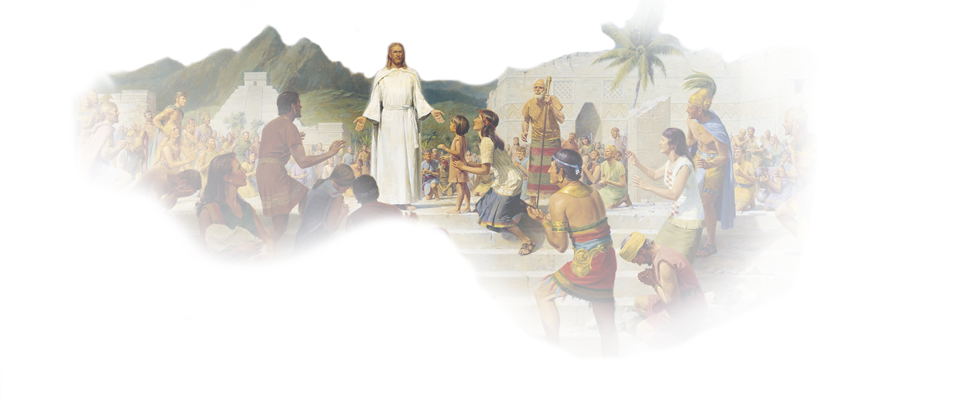
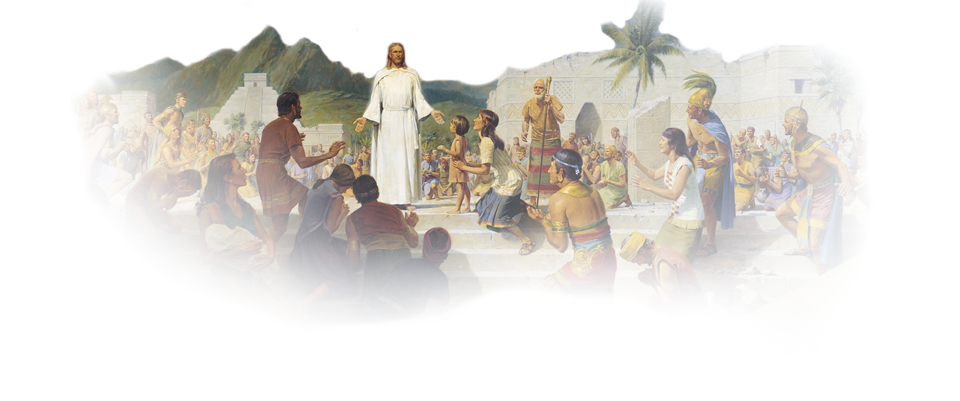
more background images. admin can view ALL event types.

diff --git a/public/index.html b/public/index.html
@@ -37,13 +37,13 @@
                                 <a class="nav-link active" id="all-events-tab" data-toggle="tab" href="#all-events" role="tab" aria-controls="all-events" aria-selected="true" onclick="app.scrollToEl(this)">Events</a>
                             </li>
                             <li class="nav-item">
-                                <a class="nav-link" id="lists-tab" data-toggle="tab" href="#lists" role="tab" aria-controls="lists" aria-selected="false">Lists</a>
+                                <a class="nav-link" id="lists-tab" data-toggle="tab" href="#lists" role="tab" aria-controls="lists" aria-selected="false" onclick="app.scrollToEl(this)">Lists</a>
                             </li>
                             <li class="nav-item">
-                                <a class="nav-link" id="prophecies-tab" data-toggle="tab" href="#prophecies" role="tab" aria-controls="prophecies" aria-selected="false">Prophecies</a>
+                                <a class="nav-link" id="prophecies-tab" data-toggle="tab" href="#prophecies" role="tab" aria-controls="prophecies" aria-selected="false" onclick="app.scrollToEl(this)">Prophecies</a>
                             </li>
                             <li class="nav-item">
-                                <a class="nav-link" id="contact-tab" data-toggle="tab" href="#contact" role="tab" aria-controls="contact" aria-selected="false">Project Info</a>
+                                <a class="nav-link" id="contact-tab" data-toggle="tab" href="#contact" role="tab" aria-controls="contact" aria-selected="false" onclick="app.scrollToEl(this)">Project Info</a>
                             </li>
                         </ul>
 
@@ -54,9 +54,10 @@
                                 <div id="eventsFilters"></div>
 
                                 <div class="events-list">
-                                    <div v-for="event in timelineEls.events.filter(e => e.eventType == 'normal' || e.eventType == 'secondary')">
 
-                                        <div class="events-list-item" :style="{'border-left': `5px solid ${ event.arc ? event.arc.color : '#aaa' }`}">
+                                    <div v-for="event in timelineEls.images.concat(timelineEls.events)">
+
+                                        <div v-if="isAdmin || (event.eventType == 'normal' || event.eventType == 'secondary')" class="events-list-item" :style="{'border-left': `5px solid ${ event.arc ? event.arc.color : '#aaa' }`}">
 
                                             <div v-if="event.img" class="event-image" :style="{'background-image': `url(${event.img})`}">
                                                 <div class="openTheater" @click="setTheaterImageByObj(event)"><i class="material-icons">fullscreen</i></div>
@@ -211,7 +212,30 @@
 
                             <!-- Info Tab -->
                             <div class="tab-pane fade" id="contact" role="tabpanel" aria-labelledby="contact-tab">
+                                <h3>Project Information</h3>
                                 <p>This project is part of a suite of study tools called Immerse. For more information or to support the project, contact Arthur Judd.</p>
+
+                                <h6>Determing Dates</h6>
+                                <p>Most of the dates on this timeline reflect information found soley in the Book of Mormon. Out of those, the majority have enough information to determine the year only, with approximate time from sequential events. In cases
+                                    where one event clearly came some time after another but still in the same year, an artibirary month was chosen to simply show the passing of time. In a future update the reliablilty of each date will be identified
+                                    for each case.</p>
+                                <p>In some cases, like the Book of Jared, an event was necessary to include but the records do not give enough information to secure a specific year and a certain of speculation was involved in deciding the year based on average
+                                    life span or duration or similar factors. In those cases, these outside sources were referenced to aid in the estimation:</p>
+                                <ul>
+                                    <li><a href="https://gentlyhewstone.com/2016/06/12/a-timeline-for-the-book-of-ether/#comments" target="_blank">"Gently Hew Stone" Blog</a></li>
+                                    <li><a href="https://gentlyhewstone.com/2016/06/12/a-timeline-for-the-book-of-ether/#comments" target="_blank">BYU Studies Book of Mormon Charts</a></li>
+                                </ul>
+
+                                <h6>Navigation</h6>
+                                <ul>
+                                    <li>Move through the timeline by scrolling left or right.</li>
+                                    <li>Zoom in and out by scrolling up and down, or with the <i class="material-icons">zoom_in</i> and <i class="material-icons">zoom_out</i> buttons.</li>
+                                    <li>You can return the initial position by clicking the <i class="material-icons">home</i> icon.</li>
+                                    <li>Event images can be expanded with the <i class="material-icons">fullscreen</i> button.</li>
+                                    <li>Click on the <i class="material-icons">gps_fixed</i> icon to jump to an event on the timeline.</li>
+                                    <li>Click on the <i class="material-icons">create</i> icon to edit the info for an event.</li>
+                                    <li>Click on the <i class="material-icons">import_contacts</i> icon to open the scripture associated with an event.</li>
+                                </ul>
                                 <p>Collaborators, <a href="#" @click="loginAdmin">login with your password</a> to edit the data.</p>
 
                             </div>
@@ -229,21 +253,36 @@
                             <div id="scrollmarker" :style="{left: `${zoomTargetPos}px`}"></div>
 
                             <!--<div id="flatLine" :style="{bottom: `${dividerHeight}rem`}"></div>-->
+                            <div v-for="era in eras" class="era-line" :style="{width: eraDuration*yearUnit+'px', left: (era-startYear)*yearUnit+'px'}">
 
-                            <div v-for="era in eras" class="century-block" :id="era" :style="{width: `${yearUnit * eraDuration}px`}">
+                                <!--<div class="sub-eras-wrapper">-->
+                                <!--    <div v-for="i in 5" class="sub-era-line"></div>-->
+                                <!--    <div v-if="eraDuration === 1" class="sub-era-line"></div>-->
+                                <!--</div>-->
+
                                 <div class="era-label">
                                     <span v-if="era < 0">{{-era}} BC</span>
                                     <span v-else>{{era + 1}} AD</span>
                                 </div>
                             </div>
 
+                            <!--<div v-for="era in eras" class="century-block" :id="era" :style="{width: `${yearUnit * eraDuration}px`}">-->
+                            <!--    <div class="era-label">-->
+                            <!--        <span v-if="era < 0">{{-era}} BC</span>-->
+                            <!--        <span v-else>{{era + 1}} AD</span>-->
+                            <!--    </div>-->
+                            <!--</div>-->
+
+                        </div>
+
+                        <div id="verticalMarkers">
                         </div>
 
                         <div id="watercolors">
 
                             <div v-for="event in timelineEls.images" :id="event.idString" class="item-wrapper eventPos image" :class="{hardFocus: event.hasFocus}" :style="{color: event.arc ? event.arc.color : '#bbb', left: `${event.relX}px`, bottom: `${event.relY}px`}">
 
-                                <img v-if="event.eventType == 'image'" class="watercolor" :src="event.img" :style="{width: event.width+'px', transform: `translate(${event.offset}%, -50%)`}" />
+                                <img v-if="event.eventType == 'image'" class="watercolor" :src="event.img" loading="eager" :style="{width: event.width+'px', transform: `translate(${event.offset}%, -50%)`}" />
 
                                 <div class="content" v-if="isAdmin">
 
@@ -315,7 +354,10 @@
 
 
                             <div v-for="event in timelineEls.events" :id="event.idString" class="item-wrapper eventPos" :class="{anchor: event.eventType == 'anchor', secondary: event.eventType == 'secondary', image: event.eventType == 'image', floating: event.eventType == 'floating', hardFocus: event.hasFocus}"
-                                :style="{color: event.arc ? event.arc.color : '#bbb', left: `${event.relX}px`, bottom: `${event.relY}px`}">
+                                :style="{color: event.color || event.arc ? event.arc.color : null, left: `${event.relX}px`, bottom: `${event.relY}px`}">
+
+                                <div v-if="event.customIcon" class="marker custom-icon-marker">{{event.customIcon}}</div>
+                                <div v-else class="marker"></div>
 
                                 <div class="content">
 
@@ -326,7 +368,7 @@
                                     <div class="time-card-wrapper" @mouseenter="pauseZoom()" @mouseleave="allowZoom()">
                                         <div class="time-card event-info-layout">
                                             <div v-if="event.img && event.eventType != 'image'" class="event-image">
-                                                <img :src="event.img" :alt="event.name">
+                                                <img :src="event.img" :alt="event.name" loading="lazy">
                                                 <div class="openTheater" @click="setTheaterImageByObj(event)"><i class="material-icons">fullscreen</i></div>
                                             </div>
 
@@ -457,11 +499,27 @@
 
 
                             <div v-if="tempItem.type == 'event'">
+
                                 <div v-if="isAdmin">
                                     Type of Event:
                                     <select v-model="tempItem.eventType" style="text-transform: capitalize;">
                                         <option v-for="type in eventTypes" :value="type">{{type}}</option>
                                     </select>
+                                </div>
+
+                                <div>
+                                    <label for="color">Color</label><br>
+                                    <input type="color" id="color" v-model="tempItem.color">
+                                    <input type="reset" class="btn btn-light btn-sm" @click="tempItem.color = null" value="Remove Color">
+                                </div>
+
+                                <div>
+                                    <label for="customIcon">Custom Icon</label><br>
+                                    <input id="customIcon" list="iconList" maxlength="2" v-model="tempItem.customIcon">
+                                    <datalist id="iconList">
+                                        <option v-for="option in getOptionsFor(timelineEls.events, 'customIcon')"
+                                            :value="option"></option>
+                                    </datalist>
                                 </div>
 
                                 <div>
@@ -564,12 +622,6 @@
                                 </div>
                             </div>
 
-                            <div v-if="tempItem.type == 'arc'">
-                                <div>
-                                    <label for="color">Color</label><br>
-                                    <input type="color" id="color" v-model="tempItem.color" />
-                                </div>
-                            </div>
 
                             <div>
                                 <label for="scriptureLink">Link to Scripture</label><br>

diff --git a/public/index.js b/public/index.js
@@ -5,7 +5,6 @@ window.mobileAndTabletCheck = function() {
 };
 
 
-
 var app = new Vue({
     el: '#app',
 
@@ -106,10 +105,19 @@ var app = new Vue({
         books: [
             { name: "1 Nephi", startYear: -599, endYear: -589, step: 1 },
             { name: "2 Nephi", startYear: -589, endYear: -544, step: 1 },
-            { name: "Jacob", startYear: -544, endYear: -519, step: 1 },
-            { name: "Enos", startYear: -544, endYear: -519, step: 1 },
-            { name: "Jarom", startYear: -544, endYear: -519, step: 1 },
-            { name: "Omni", startYear: -544, endYear: -519, step: 1 },
+            { name: "Jacob", startYear: -544, endYear: -515, step: 1 },
+            { name: "Enos", startYear: -515, endYear: -420, step: 1 },
+            { name: "Jarom", startYear: -420, endYear: -361, step: 1 },
+            { name: "Omni", startYear: -361, endYear: -135, step: 1 },
+            { name: "Words of Mormon", startYear: -135, endYear: -123, step: 1 },
+            { name: "Mosiah", startYear: -135, endYear: -90, step: 1 },
+            { name: "Mosiah 9-24", startYear: -176, endYear: -120, step: 2 },
+            { name: "Alma", startYear: -90, endYear: -51, step: 1 },
+            { name: "Helaman", startYear: -51, endYear: 0, step: 1 },
+            { name: "3 Nephi", startYear: 0, endYear: 35, step: 1 },
+            { name: "4 Nephi", startYear: 35, endYear: 321, step: 1 },
+            { name: "Mormon", startYear: 321, endYear: 385, step: 1 },
+            { name: "Moroni", startYear: 385, endYear: 421, step: 1 },
         ],
     },
 
@@ -255,6 +263,8 @@ var app = new Vue({
                     this.tempItem = {
                         idString: "tempItem",
                         "type": "event",
+                        color: null,
+                        customIcon: null,
                         eventType: 'normal',
                         "name": "New Event",
                         "artist": null,
@@ -629,7 +639,9 @@ var app = new Vue({
             this.eraDuration = 1;
 
             while (this.yearUnit * this.eraDuration < this.minEraWidth) {
-                if (this.eraDuration % 2 == 0 || this.eraDuration == 1) this.eraDuration *= 5
+                if (this.eraDuration % 2 == 0 || this.eraDuration == 1) {
+                    this.eraDuration *= 5;
+                }
                 else this.eraDuration *= 2;
             }
 
@@ -680,6 +692,7 @@ var app = new Vue({
         },
 
         timelineEls() {
+            console.log('calculating timelineEls')
             this.arcs.forEach(a => a.points = [])
 
             let events = []
@@ -688,11 +701,12 @@ var app = new Vue({
             this.items.filter(i => i.type === 'event').forEach(event => {
 
 
-                let yearPos = (event.year - this.startYear) * 365 * this.dayUnit;
-                if (event.year > 0) yearPos -= 365 * this.dayUnit;
-                let monthPos = (event.month - 1) * 31 * this.dayUnit;
-                let dayPos = event.day * this.dayUnit;
-                event.relX = yearPos + monthPos + dayPos;
+                let yearInDays = (event.year - this.startYear) * 365;
+                if (event.year > 0) yearInDays -= 365;
+                let monthInDays = (event.month - 1) * 31;
+                let days = event.day;
+                let totalDays = yearInDays + monthInDays + days;
+                event.relX = totalDays * this.dayUnit;
 
                 event.relY = (event.pos / 100) * document.getElementById('timeline-box').offsetHeight;
 

diff --git a/public/index.css b/public/index.css
@@ -230,11 +230,31 @@ div#menuCloserSplash {
 .century-block {
     position: relative;
     align-items: flex-end;
-    ;
     display: flex;
     height: 100%;
     background-image: linear-gradient(90deg, transparent, #00000004);
     border-right: 1px solid #0001;
+}
+.era-line {
+    position: absolute;
+    top: 0px;
+    height: 100%;
+    background-image: linear-gradient(90deg, transparent, #00000004);
+    border-right: 1px solid #0001;
+    display: flex;
+    align-items: flex-end;
+}
+
+.sub-eras-wrapper {
+    position: absolute;
+    width: 100%;
+    height: 100%;
+    display: flex;
+}
+.sub-era-line {
+    height: 100%;
+    flex-grow: 1;
+    border-right: 1px solid #00000005;
 }
 
 .era-label {
@@ -306,34 +326,49 @@ div#flatLine {
 }
 
 .eventPos {
-    color: #00000033;
+    color: var(--blue);
     position: absolute;
     bottom: 0%;
+    z-index: 3;
+    transform: translate(-50%, 50%);
+}
+
+.marker {
+    position: absolute;
+    bottom: 50%;
+    left: 50%;
     padding: .2em;
     border: 0.38em solid;
     border-radius: 50%;
     background: #fff;
-    z-index: 3;
-    box-shadow: 0 0 2px #0006;
+    z-index: 0;
+    filter: drop-shadow(0 0 2px #0006);
     transform: translate(-50%, 50%);
+    cursor: default;
 }
 
-.eventPos.secondary {
+.eventPos.secondary .marker {
     padding: 0px;
     border: 0.35em solid;
 }
 
-.eventPos.anchor {
+.eventPos.anchor .marker {
     z-index: 0;
     padding: 0;
     box-shadow: none;
-    border: 4px solid;
+    border: 2.5px solid;
     background: transparent;
 }
 
-.isAdmin .eventPos.anchor {
+.isAdmin .eventPos.anchor .marker {
     z-index: 3;
     border: 4px solid;
+}
+
+.eventPos .marker.custom-icon-marker {
+    border: none;
+    background: none;
+    font-size: 1.5em;
 }
 
 #app:not(.isAdmin) .eventPos.anchor .content {
@@ -714,7 +749,7 @@ li.nav-item {
 }
 
 div#contact.tab-pane {
-    padding: 1em;
+    padding: 1.5em;
 }
 
 .tab-content .tab-pane.active {
@@ -811,9 +846,8 @@ div#contact.tab-pane {
     margin: .5em 0 0;
 }
 
-textarea#note {
-    min-width: 100%;
-    min-height: 7em;
+input[type="range"] {
+    width: 100%;
 }
 
 .lists-list-wrapper {
@@ -853,6 +887,10 @@ a.lists-lists-item-remove {
 }
 
 
+textarea#note {
+    min-width: 100%;
+    min-height: 7em;
+}
 
 
 

diff --git a/server.js b/server.js
@@ -124,6 +124,7 @@ app.delete('/api/arcs/:id', async(req, res) => {
 // Create a scheme for items in the timeline: a title and a path to an image.
 const timelineObjectSchema = new mongoose.Schema({
   name: String,
+  customIcon: String,
   day: Number,
   color: String,
   month: Number,
